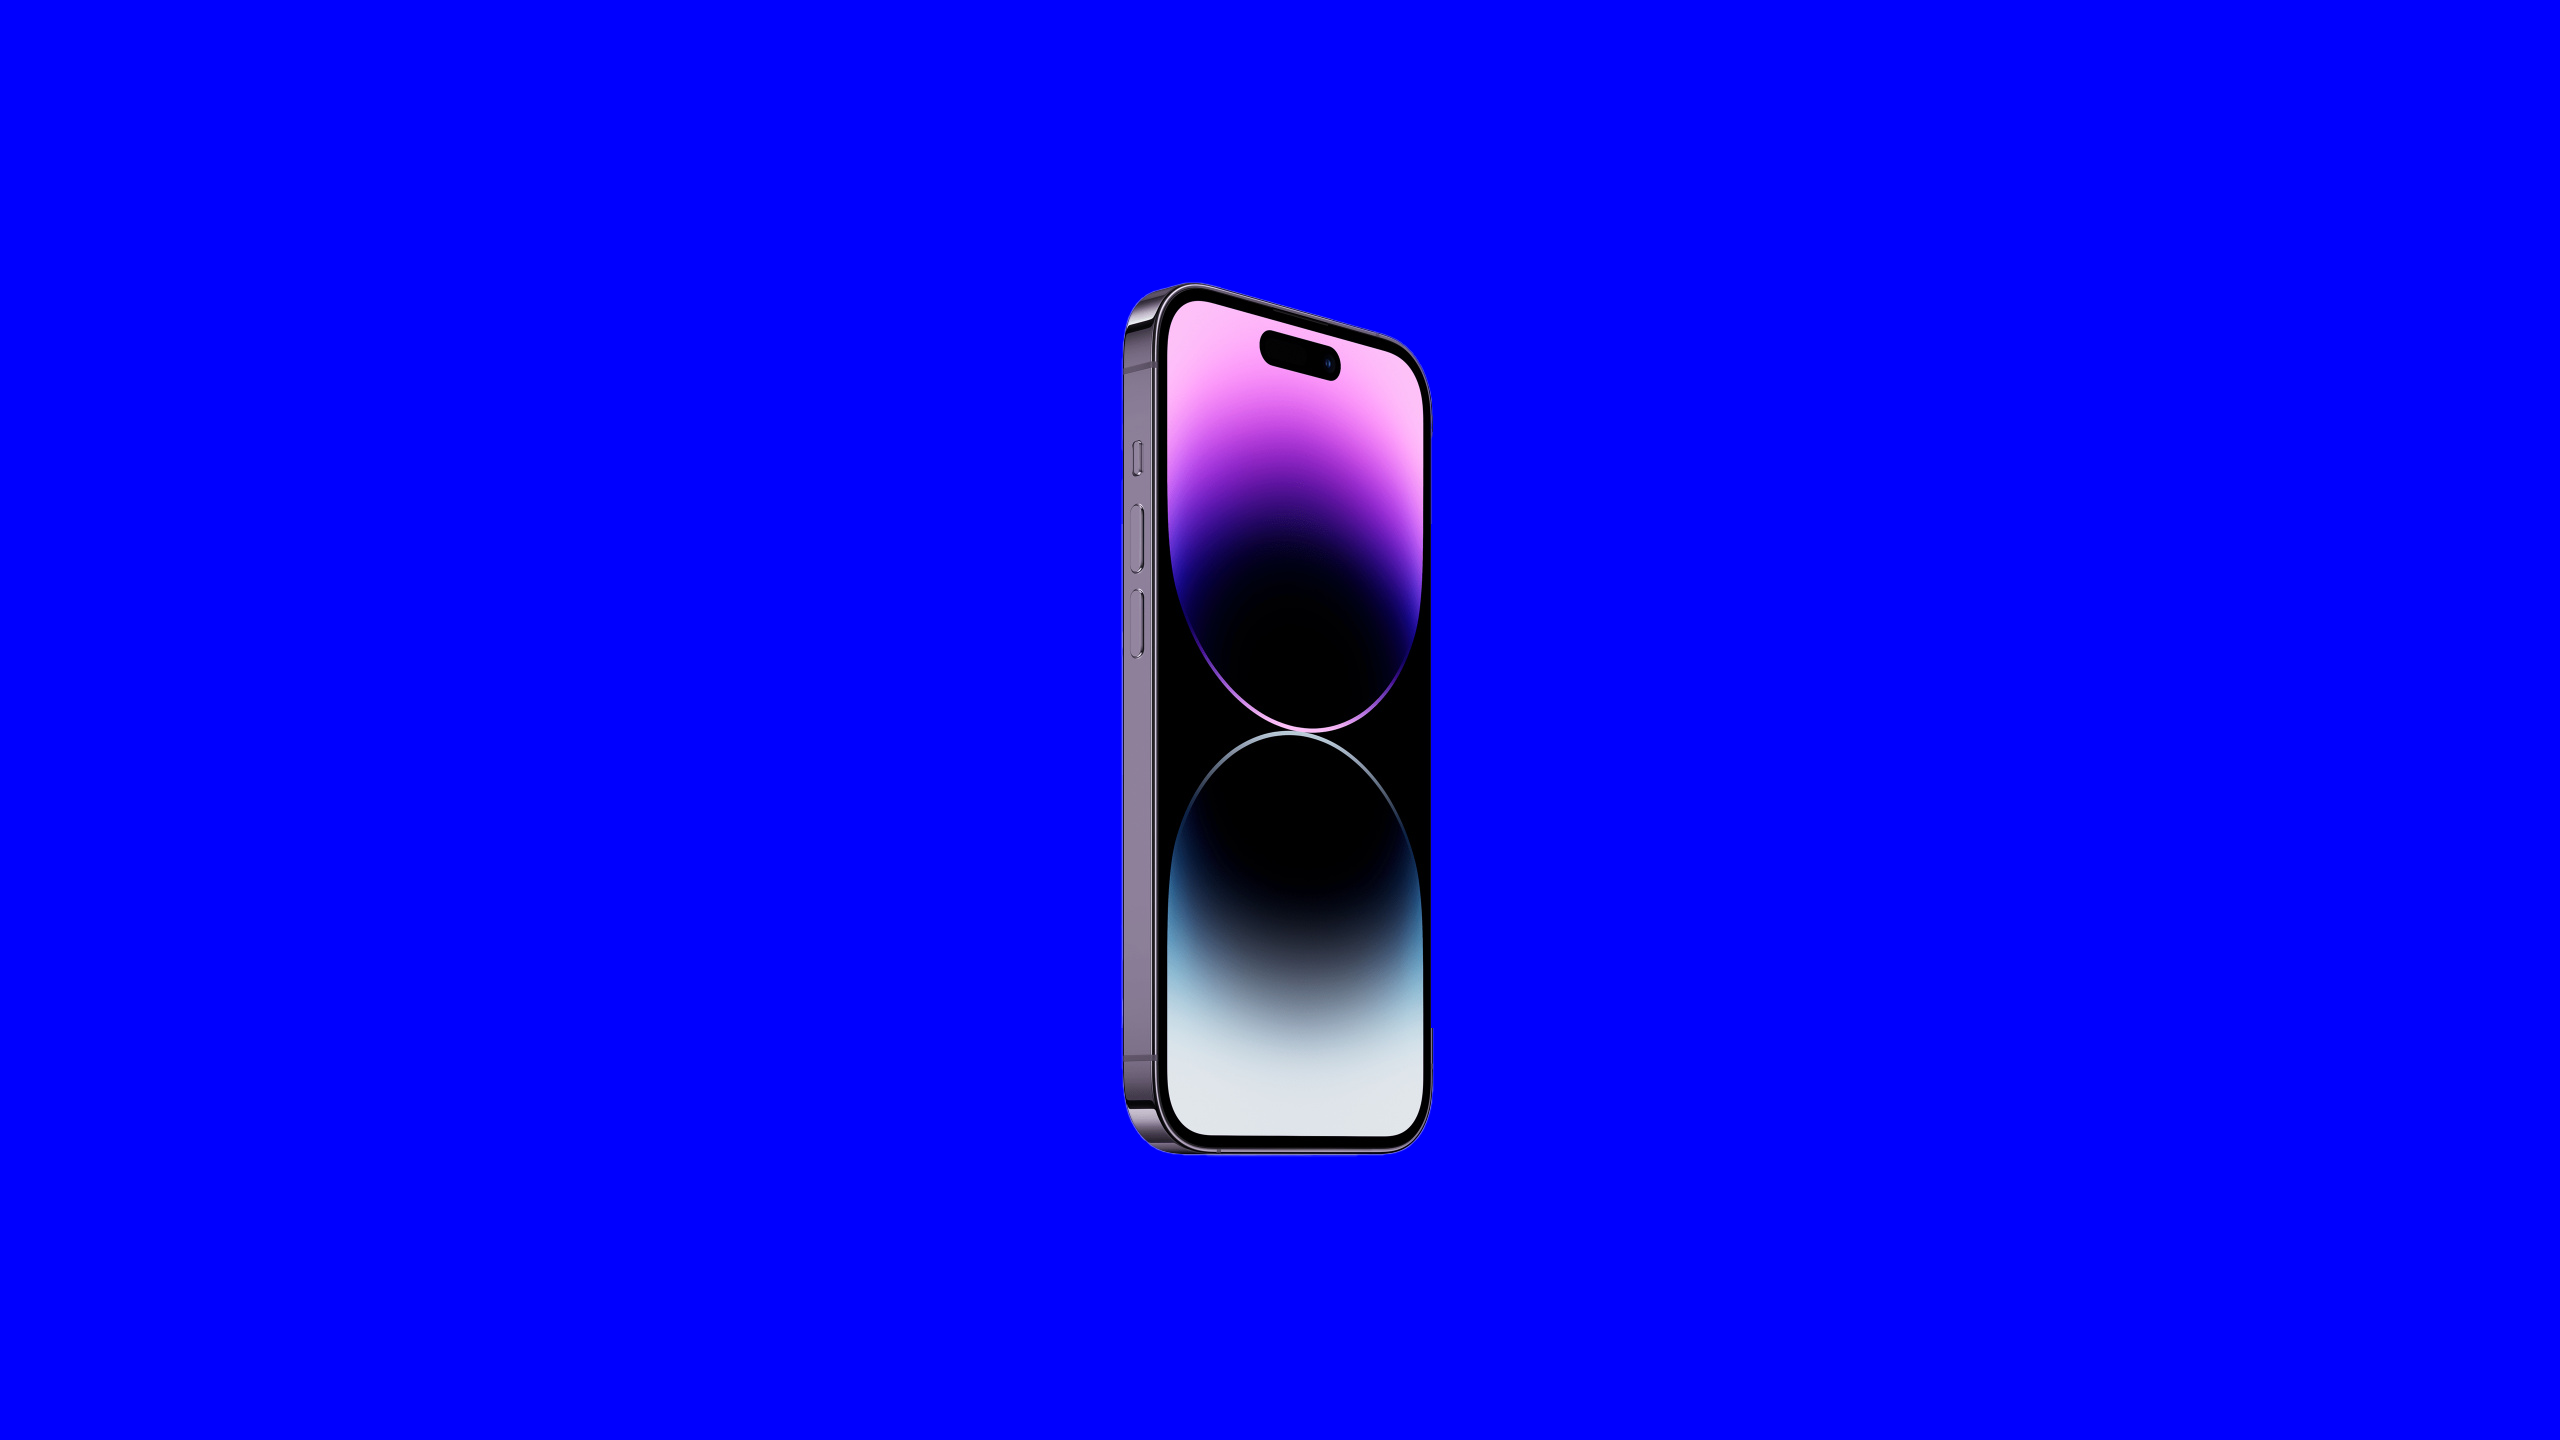
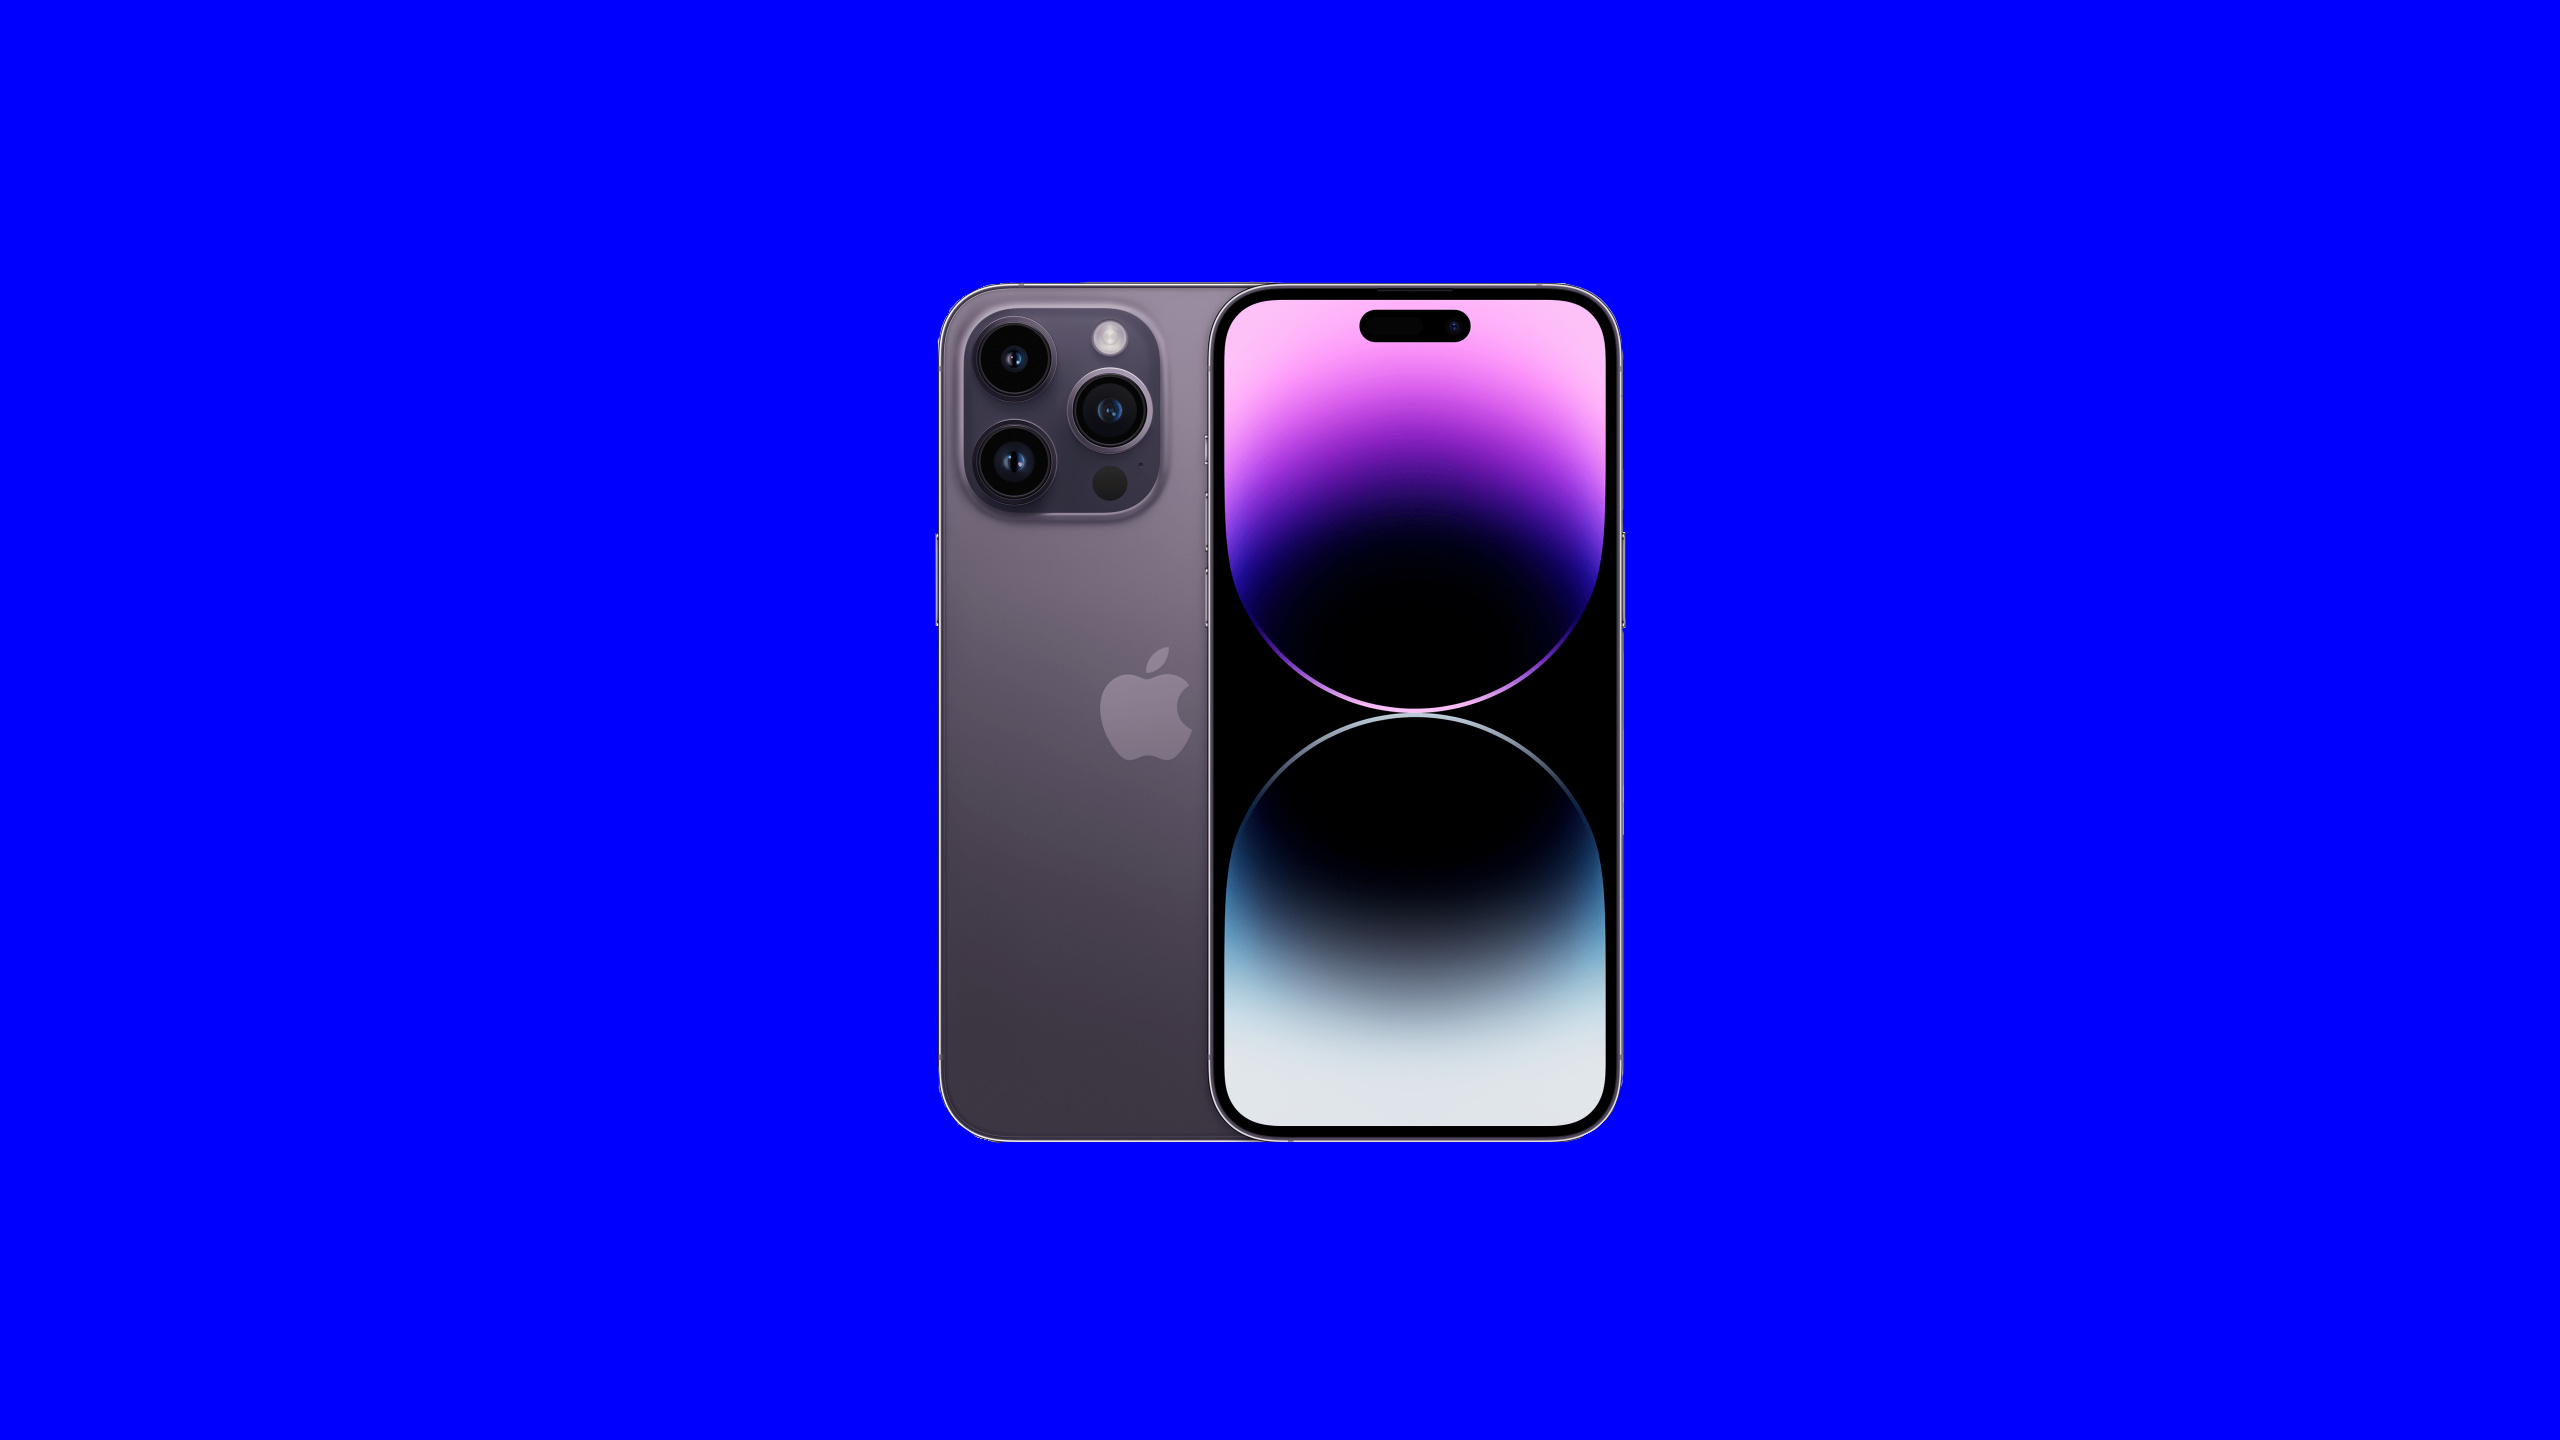
added working color options for iphone

Changed region(s): [[0.3438, 0.1875, 0.6562, 0.8125]]

diff --git a/js/store.js b/js/store.js
@@ -1,8 +1,21 @@
+//main site
 const modeicon = document.getElementsByClassName("modeswitchicon")
 const sidenav = document.getElementsByClassName("sidenav")
 const showcase = document.getElementsByClassName("showcase")
 const arrow = document.getElementsByClassName("arrowicon")
 const navbar = document.getElementsByClassName("navbar");
+
+//buy sties
+const buyimgmain = document.getElementById("buyimgmain")
+
+const pro = document.getElementById("pro")
+const promax = document.getElementById("promax")
+
+const purple = document.getElementById("purple")
+const gold = document.getElementById("gold")
+const silver = document.getElementById("silver")
+const black = document.getElementById("black")
+
 
 const prefersDarkScheme = window.matchMedia("(prefers-color-scheme: dark)");
 function dark() {
@@ -40,8 +53,6 @@ function showarrow(x){
 }
 
 function openbuysite(x){
-    console.log(x)
-    console.log(x.id)
     if(x.id == 'iphone14'){
         window.open("html/buy-iphone14.html", "_self")
     }else if(x.id == 'ps5'){
@@ -55,4 +66,50 @@ function openbuysite(x){
     }else if(x.id == 'jordan1'){
         window.open("html/buy-jordan1.html", "_self")
     }
+}
+
+function iphoneselect(x){
+    if(x.id == 'pro'){
+        pro.classList.add("selected")
+        promax.classList.remove("selected")
+        var size = ['pro']
+    }else if (x.id == 'promax'){
+        promax.classList.add("selected")
+        pro.classList.remove("selected")
+        var size = ['promax']
+    }else if(x.id == 'purple'){
+        purple.classList.add("selected")
+        gold.classList.remove("selected")
+        silver.classList.remove("selected")
+        black.classList.remove("selected")
+        buyimgmain.src = "../pics/iphone14_purple_buy.png"
+        var color = ['purple']
+    }else if(x.id == 'gold'){
+        gold.classList.add("selected")
+        purple.classList.remove("selected")
+        silver.classList.remove("selected")
+        black.classList.remove("selected")
+        buyimgmain.src = "../pics/iphone14_gold_buy.png"
+        var color = ['gold']
+    }else if(x.id == 'silver'){
+        silver.classList.add("selected")
+        gold.classList.remove("selected")
+        purple.classList.remove("selected")
+        black.classList.remove("selected")
+        buyimgmain.src = "../pics/iphone14_white_buy.png"
+        var color = ['silver']
+    }else if(x.id == 'black'){
+        black.classList.add("selected")
+        gold.classList.remove("selected")
+        purple.classList.remove("selected")
+        silver.classList.remove("selected")
+        buyimgmain.src = "../pics/iphone14_black_buy.png"
+        var color = ['black']
+    }
+}
+
+function gimmiecookie(){
+    document.cookie = "username=Nigger; expires=Thu, 18 Dec 2022 12:00:00 UTC; path=/";
+    let x = document.cookie
+    console.log(x);
 }

diff --git a/html/buy-iphone14.html b/html/buy-iphone14.html
@@ -7,7 +7,6 @@
     <link rel="stylesheet" href="https://fonts.googleapis.com/css2?family=Material+Symbols+Rounded:opsz,wght,FILL,GRAD@48,400,0,0" />
     <link rel="stylesheet" href="https://fonts.googleapis.com/css?family=Montserrat">
     <link rel="stylesheet" href="../css/store.css">
-    <script src="../js/store.js"></script>
     <script src="https://kit.fontawesome.com/569f800168.js" crossorigin="anonymous"></script>
     <title>Buy iPhone 14</title>
 </head>
@@ -47,11 +46,11 @@
             <p class="buyprice text">from $899</p>
         </div>
         <div class="buymain">
-            <img class="buyimgmain" src="../pics/iphone14_purple_buy.png" alt="">
+            <img class="buyimgmain" id="buyimgmain" src="../pics/iphone14_default_buy.png" alt="">
             <div class="buyselctioncontainer">
                 <div class="buysizesection">
                     <p class="selecttitle text">iPhone Model</p>
-                    <div class="select">
+                    <div class="select selected" id="pro" onclick="iphoneselect(this)">
                         <div>
                             <p class="selectname text">iPhone 14 Pro</p>
                             <p class="selectsize text">6.1-inch display</p>
@@ -60,7 +59,7 @@
                             <p class="selectprice text">$899</p>
                         </div>
                     </div>
-                    <div class="select">
+                    <div class="select" id="promax" onclick="iphoneselect(this)">
                         <div>
                             <p class="selectname text">iPhone 14 Pro Max</p>
                             <p class="selectsize text">6.7-inch display</p>
@@ -71,10 +70,10 @@
                     </div>
                     <p class="selecttitle text">iPhone Color</p>
                     <div class="colorselectors">
-                        <div class="colorselect" id="purple"></div>
-                        <div class="colorselect" id="gold"></div>
-                        <div class="colorselect" id="silver"></div>
-                        <div class="colorselect" id="black"></div>
+                        <div class="colorselect selected" id="purple" onclick="iphoneselect(this)"></div>
+                        <div class="colorselect" id="gold" onclick="iphoneselect(this)"></div>
+                        <div class="colorselect" id="silver" onclick="iphoneselect(this)"></div>
+                        <div class="colorselect" id="black" onclick="iphoneselect(this)"></div>
                     </div>
                 </div>
                 <div class="buyoptions">
@@ -88,4 +87,5 @@
             </div>
         </div>
     </div>
+    <script src="../js/store.js"></script>
 </body>

diff --git a/css/store.css b/css/store.css
@@ -428,6 +428,9 @@ body{
     width: 100%;
     max-width: 1200px;
     border-radius: 18px;
+    transition-property: opacity;
+    transition-timing-function: ease-in-out;
+    transition-duration: .4s;
 }
 
 .buymain{
@@ -546,4 +549,10 @@ body{
 
 #dior{
     background-color: #afaeb4;
+}
+
+.selected{
+    border-width: 2px;
+    border-style: solid;
+    border-color: #0071e3;
 }
